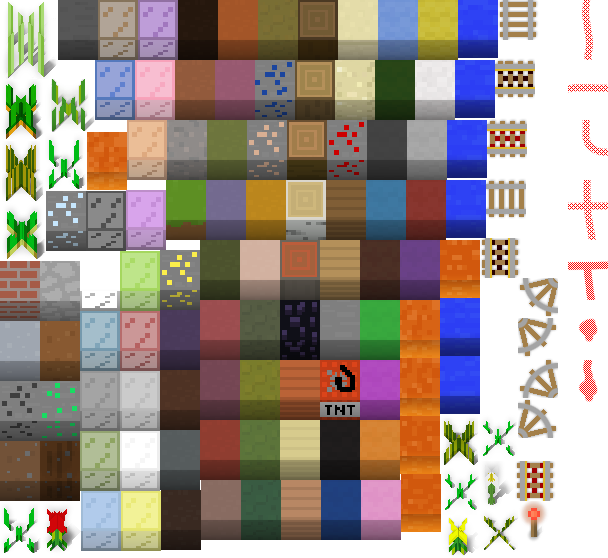
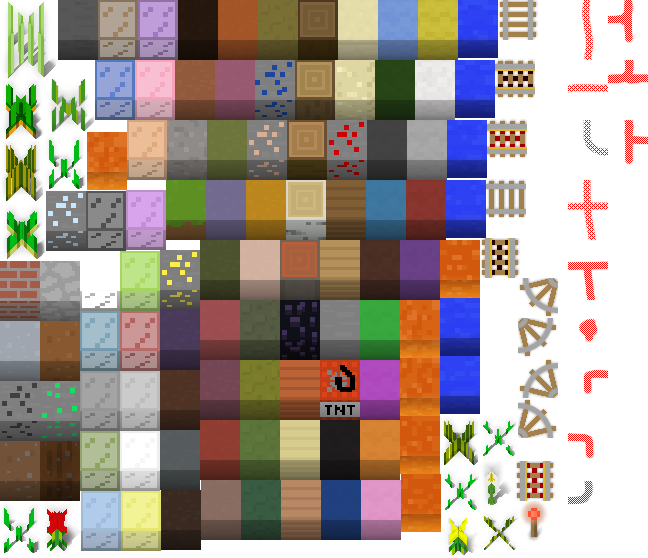
adding more placeholder art

diff --git a/src/js/game/LevelMVC/LevelView.js b/src/js/game/LevelMVC/LevelView.js
@@ -2088,34 +2088,32 @@ export default class LevelView {
                 //purely horizontal, no above or below
                 this.blocks[blockType][1] = "Redstone_Dust_Horizontal";
             } else {
-                this.blocks[blockType][1] = "Redstone_Dust_Corner";
                 //we have a corner and will need to rotate
                 if (foundBelow) {
                     //if we have a blow, the other has to be right or left
                     if (foundLeft) {
-                        //rotate  corner if e can rotate, or reference bottom|left corner sprite
+                        this.blocks[blockType][1] = "Redstone_Dust_Corner_DownLeft";
                     } else {
-                        //rotate  corner if e can rotate, or reference bottom|right corner sprite
+                        this.blocks[blockType][1] = "Redstone_Dust_Corner_DownRight";
                     }
                 } else {
                     //if not below, then above + left or right
                     if (foundLeft) {
-                        //rotate  corner if e can rotate, or reference top|left corner sprite
+                        this.blocks[blockType][1] = "Redstone_Dust_Corner_UpLeft";
                     } else {
-                        //rotate  corner if e can rotate, or reference top|right corner sprite
+                        this.blocks[blockType][1] = "Redstone_Dust_Corner_UpRight";
                     }
                 }
             }
         } else if (borderCount === 3) {
-            this.blocks[blockType][1] = "Redstone_Dust_T";
             if (!foundBelow) {
-                //rotate T or use no-below T sprite
+                this.blocks[blockType][1] = "Redstone_Dust_TUp";
             } else if (!foundAbove) {
-                //rotate T or use no-above T sprite
+                this.blocks[blockType][1] = "Redstone_Dust_TDown";
             } else if (!foundLeft) {
-                //rotate T or use no-left T sprite
+                this.blocks[blockType][1] = "Redstone_Dust_TRight";
             } else if (!foundRight) {
-                //rotate T or use no-right T sprite
+                this.blocks[blockType][1] = "Redstone_Dust_TLeft";
             }
         } else if (borderCount === 4) {
             //all four sides connected: Cross

diff --git a/src/test-build-only/levels.js b/src/test-build-only/levels.js
@@ -77,10 +77,10 @@ window.demoLevels = {
       "tallGrass", "", "", "", "", "", "", "", "", ""],
 
     actionPlane: ["grass", "grass", "", "", "", "", "", "", "grass", "grass",
-      "", "grass", "", "", "", "", "", "", "", "grass",
-      "", "", "", "", "redstone_wire", "", "", "", "", "",
-      "", "", "", "redstone_wire", "redstone_wire", "redstone_wire", "", "", "torch", "",
-      "", "", "", "", "redstone_wire", "", "", "", "", "",
+      "", "redstone_wire", "redstone_wire", "redstone_wire", "redstone_wire", "", "redstone_wire", "redstone_wire", "", "grass",
+      "", "", "redstone_wire", "", "redstone_wire", "", "", "redstone_wire", "", "",
+      "", "", "redstone_wire", "redstone_wire", "redstone_wire", "redstone_wire", "redstone_wire", "redstone_wire", "torch", "",
+      "", "", "", "", "redstone_wire", "", "", "redstone_wire", "", "",
       "dirt", "treeJungle", "", "", "", "", "", "", "", "",
       "", "", "grass", "door", "", "", "", "", "", "",
       "", "", "", "", "", "", "", "", "treeAcacia", "",
